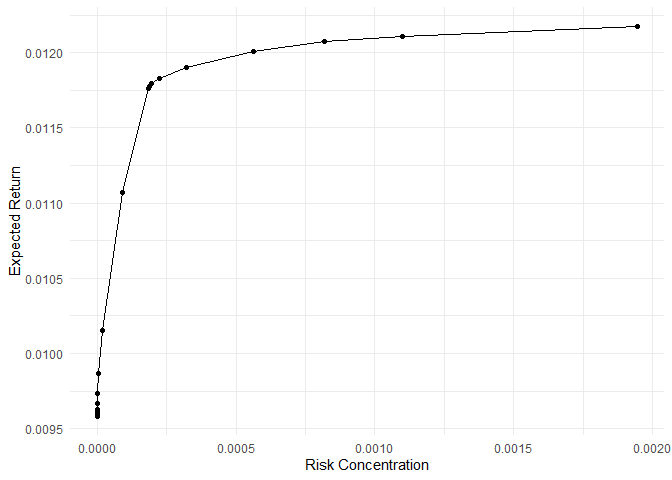
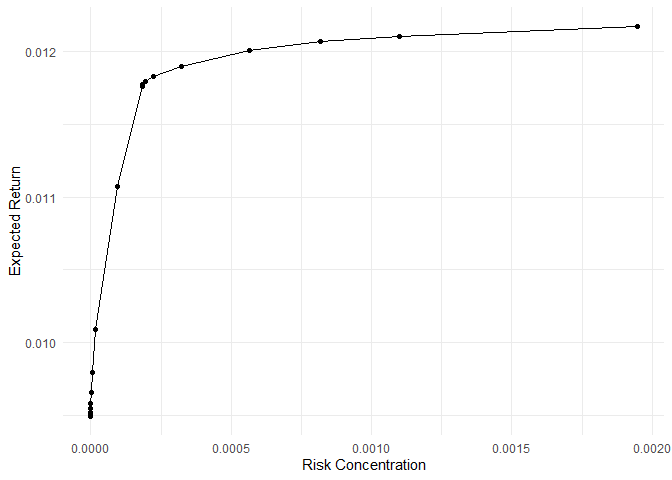
Check Markdown

diff --git a/README.md b/README.md
@@ -5,6 +5,17 @@ coding aspect of the Financial Econometrics essay submitted in January
 2025. I will talk through the coding done to get the results represented
 in the written report of this essay
 
+``` r
+rm(list = ls()) # Clean your environment:
+gc()
+knitr::opts_chunk$set(message=FALSE, warning=FALSE)
+pacman::p_load(tidyverse, riskParityPortfolio, xts, quadprog, tbl2xts, PerformanceAnalytics,
+               RColorBrewer, knitr, kableExtra)
+
+setwd("~/Masters_2024_stuff/Financial_Econometrics/Fin_Metrics_Project")
+list.files('Written_Report/code/', full.names = T, recursive = T) %>% .[grepl('.R', .)] %>% as.list() %>% walk(~source(.))
+```
+
 ## Packages
 
 What follows is the list of packages that have been used throughout the
@@ -22,6 +33,13 @@ functions of this project:
 
 ## Setting up the Data
 
+``` r
+Data <- Data_Setup()
+
+LCL_Index_dat <- Data[[2]]
+Rebal_Days <- Data[[3]]
+```
+
 The Data_Setup function takes the data folders provider by the
 administrator of the module and reads them into data frames. The Stock
 specific daily data for the JSE is adapted to only include the current
@@ -37,6 +55,10 @@ later points.
 
 ## Assets Portfolios Construction
 
+``` r
+Sector_Plots <- Sector_Risk_Parity(data = LCL_Index_dat, rebal = Rebal_Days)
+```
+
 Here the data from the initial function is parsed to the
 Sector_Risk_Parity function to construct and plot relevant aspects of
 the portfolios. All relevant plots that are computed along the way and
@@ -47,6 +69,10 @@ other indices. This is a separate function called impute_missing_returns
 that, when used with the specifics that I chose, will draw the
 replacement values from the distribution of that specific variable.
 
+``` r
+Sector_Plots[[1]]
+```
+
 ![](README_files/figure-markdown_github/unnamed-chunk-4-1.png)
 
 The first step was to look at the different methods of risk parity that
@@ -54,6 +80,10 @@ is allowed by the riskParityPortfolio. This is compared to an equal
 weighting portfolio to demonstrate differences in approach. The RPP + mu
 is chosen as it allows for the additional consideration of returns in
 the construction of the portfolio.
+
+``` r
+Sector_Plots[[2]]
+```
 
 ![](README_files/figure-markdown_github/unnamed-chunk-5-1.png)
 
@@ -85,6 +115,10 @@ the index specific returns of the bond market and the JSE ALSI to plot
 the cumulative returns of all the portfolios and other two indices. As
 seen below.
 
+``` r
+Sector_Plots[[3]]
+```
+
 ![](README_files/figure-markdown_github/unnamed-chunk-6-1.png)
 
 Next the PerformanceAnalytics package allows me to plot the weights of
@@ -96,7 +130,23 @@ the assets very regularly. The plots were originally made with the
 PerformanceAnalytics package, however in order to adapt their appearance
 the dataset was converted to a data frame and plotted with ggplot.
 
-![](README_files/figure-markdown_github/unnamed-chunk-7-1.png)![](README_files/figure-markdown_github/unnamed-chunk-7-2.png)![](README_files/figure-markdown_github/unnamed-chunk-7-3.png)
+``` r
+Sector_Plots[[4]]
+```
+
+![](README_files/figure-markdown_github/unnamed-chunk-7-1.png)
+
+``` r
+Sector_Plots[[5]]
+```
+
+![](README_files/figure-markdown_github/unnamed-chunk-7-2.png)
+
+``` r
+Sector_Plots[[6]]
+```
+
+![](README_files/figure-markdown_github/unnamed-chunk-7-3.png)
 
 Next the function puts all the returns data and dates together in order
 to be able to do thorough analysis of the returns of each of these
